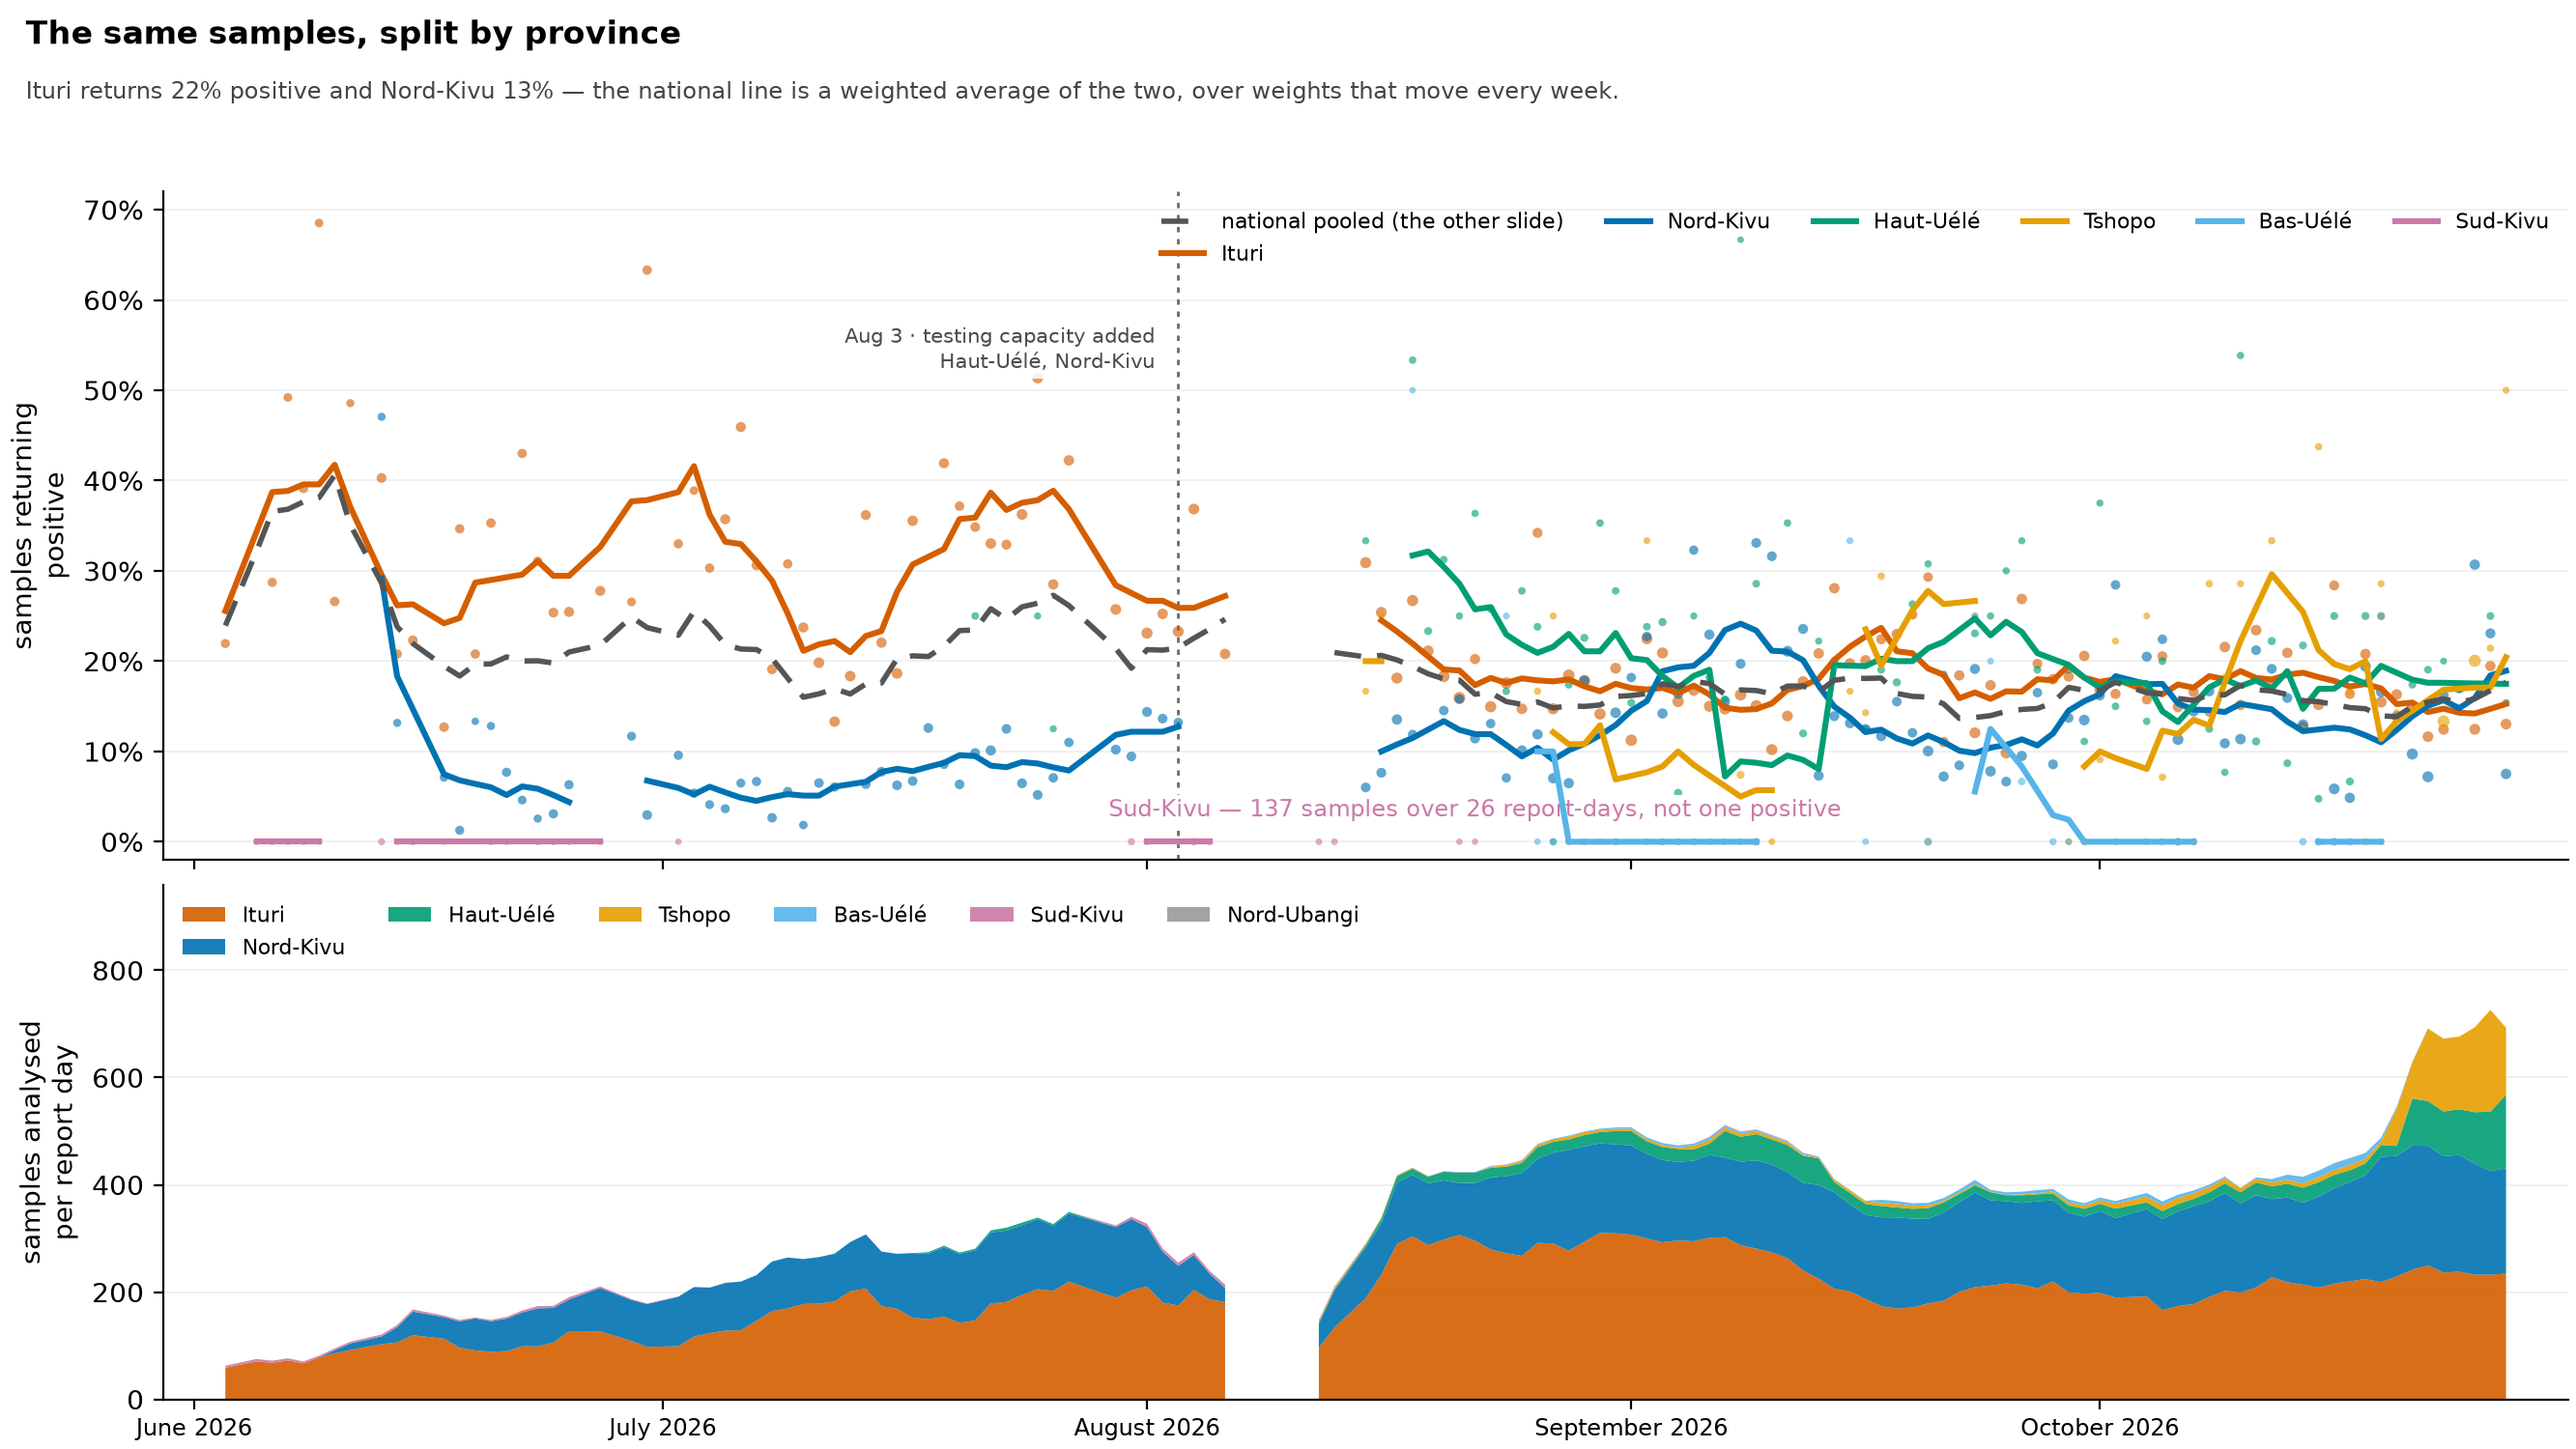
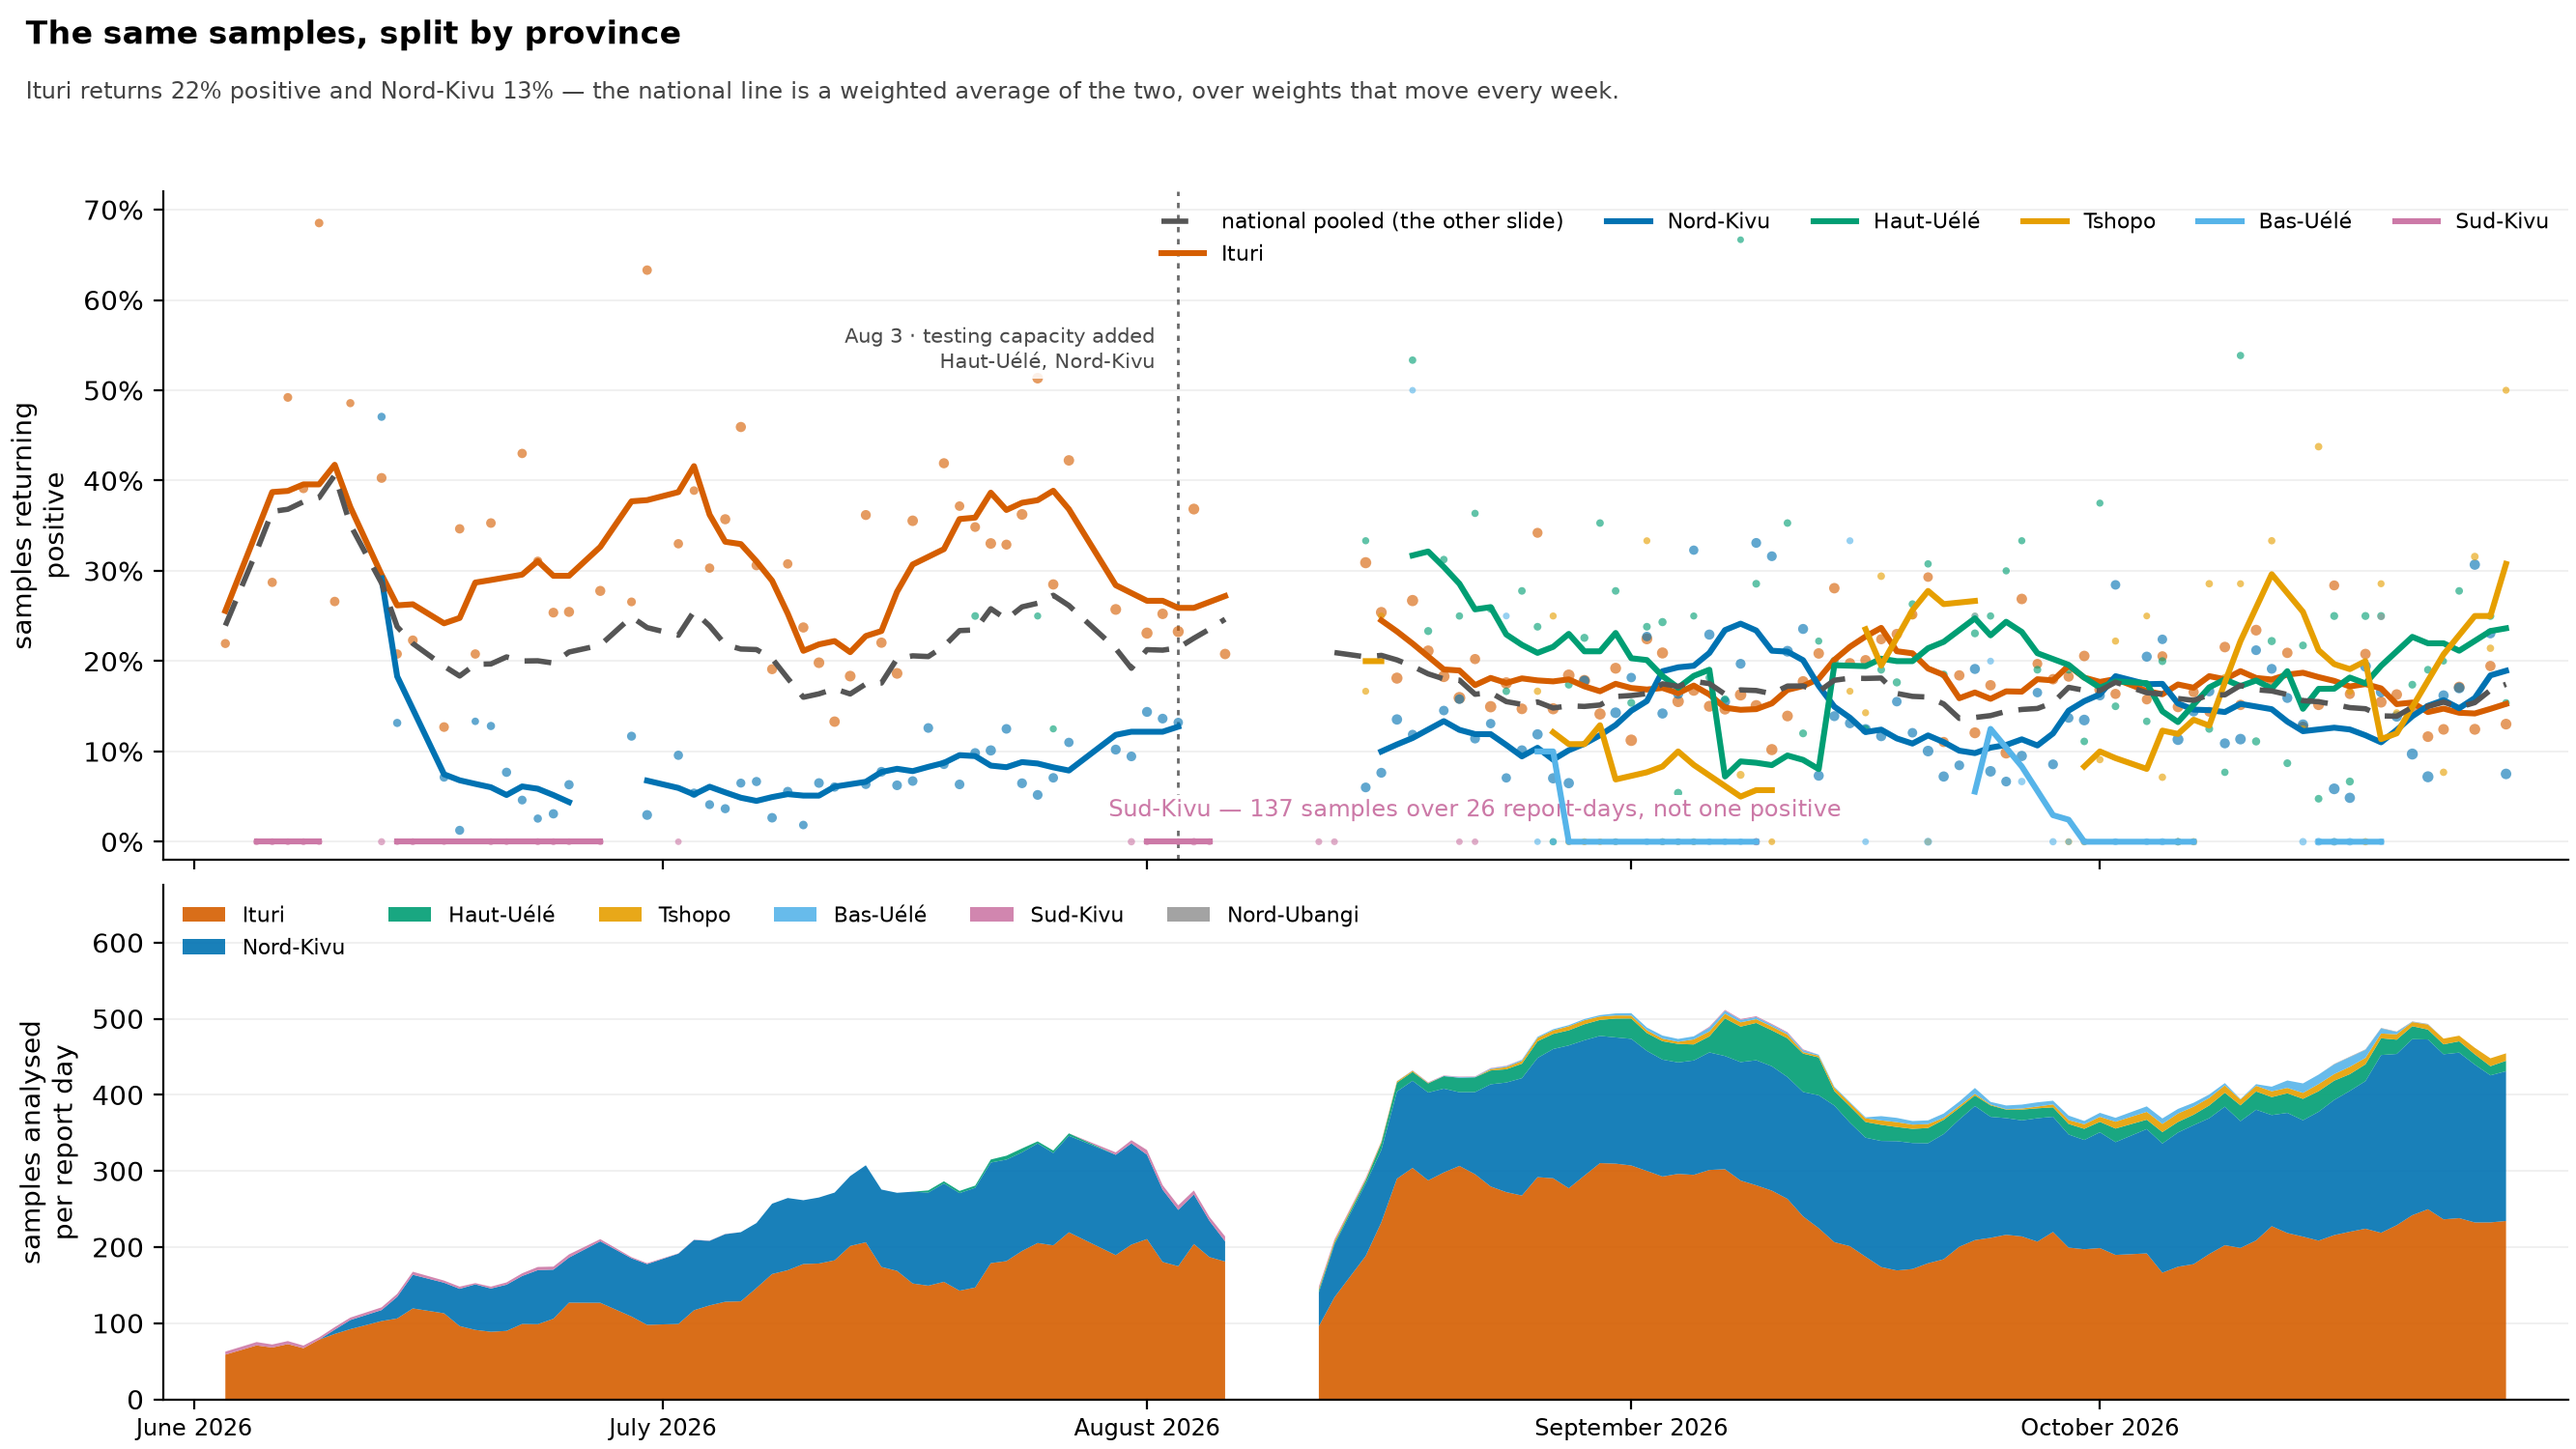
lab: once a report's laboratory section reads any province, readings from outside it are not used -- the front page runs the day's province list into the national laboratory total with no full stop, so the last-named province's segment licensed the national pair against the national rate: Tshopo 60/

diff --git a/scripts/extract_lab_prose.py b/scripts/extract_lab_prose.py
@@ -268,7 +268,7 @@ def extract(pdf: Path) -> tuple[list[dict], list[dict]]:
                 # zero -- so this row is as validated as a printed number.
                 rows.append({"province": prov, "samples": int(ns[0]),
                              "positives": 0, "printed_pct": 0.0,
-                             "rate_printed": True,
+                             "rate_printed": True, "in_lab": in_lab,
                              "sentence": seg.strip()[:220]})
                 continue
         if not pcts:
@@ -283,7 +283,7 @@ def extract(pdf: Path) -> tuple[list[dict], list[dict]]:
                     n, k = got
                     rows.append({"province": prov, "samples": n,
                                  "positives": k, "printed_pct": None,
-                                 "rate_printed": False,
+                                 "rate_printed": False, "in_lab": in_lab,
                                  "sentence": seg.strip()[:220]})
                 elif why == "positives_exceed_samples":
                     refused.append({"why": "fallback_positives_exceed_samples",
@@ -301,8 +301,23 @@ def extract(pdf: Path) -> tuple[list[dict], list[dict]]:
             continue
         k, n, p = got
         rows.append({"province": prov, "samples": n, "positives": k,
-                     "printed_pct": p, "rate_printed": True,
+                     "printed_pct": p, "rate_printed": True, "in_lab": in_lab,
                      "sentence": seg.strip()[:220]})
+    # THE LABORATORY SECTION IS THE PROVINCE'S OWN STATEMENT; ELSEWHERE A
+    # SEGMENT CAN SWALLOW A NATIONAL SENTENCE. The front page lists the day's
+    # provinces and runs straight into the national laboratory total with no
+    # full stop between them -- sitrep 162: "... et de la Tshopo (1) Un total
+    # de 450 nouveaux échantillons a été analysé ; 60 de ces échantillons se
+    # sont révélés positifs ..., soit 13,3 %" -- so the last-named province's
+    # segment holds a pair (60, 450) that reproduces its printed rate and
+    # licenses. It was Tshopo's on 23 and 25 October (the section says 1/13
+    # and 6/19) and Haut-Uélé's on 24 October (5/18), and the national
+    # series counted each of those days twice. Once the section has spoken
+    # for any province, readings from outside it are not used for that
+    # report; they remain the route for reports whose section the reader
+    # cannot find.
+    if any(r["in_lab"] for r in rows):
+        rows = [r for r in rows if r["in_lab"]]
     out, conflicts = dedupe_by_province(rows)
     refused.extend(conflicts)
     return out, refused
@@ -358,6 +373,7 @@ def main() -> None:
         num, date = report_key(pdf)
         got, refused = extract(pdf)
         for r in got:
+            r = {k: v for k, v in r.items() if k != "in_lab"}
             rows.append({"sitrep": num, "date": date, **r})
         status.append({"sitrep": num, "date": date, "n_parsed": len(got),
                        "n_refused": len(refused),

diff --git a/tests/test_extraction.py b/tests/test_extraction.py
@@ -1146,6 +1146,51 @@ def test_lab_prose_validated_rows_agree_with_their_own_printed_pct():
     assert not bad, bad
 
 
+@needs_pdfs
+@pytest.mark.parametrize("n, province, want", [
+    (162, "Tshopo", (13, 1)),       # front page: 450 analysed, 60 positive
+    (163, "Haut-Uélé", (18, 5)),    # front page: 512 analysed, 88 positive
+    (164, "Tshopo", (19, 6)),       # front page: 479 analysed, 96 positive
+])
+def test_lab_prose_the_national_headline_is_not_the_last_named_province(
+        n, province, want):
+    """The front page names the day's provinces and runs into the national
+    laboratory total with no full stop between ("... et de la Tshopo (1) Un
+    total de 450 nouveaux échantillons a été analysé ; 60 ..."), so the last
+    province's segment holds the national pair, and it licenses against the
+    national rate. The province's own bullet in the laboratory section is
+    the reading; the headline is not."""
+    import extract_lab_prose as L
+    got, _ = L.extract(pdf(n))
+    by = {r["province"]: (r["samples"], r["positives"]) for r in got}
+    assert by[province] == want
+
+
+@needs_lab_prose_build
+def test_lab_prose_no_province_holds_the_national_count():
+    """One province cannot account for every confirmed case of a day on
+    which another province also had positives. A province row equal to the
+    day's national confirmed cases on such a day is the national sentence
+    read into a province: on 2026-10-23..25 that put 60, 88 and 96 positives
+    into Tshopo and Haut-Uélé and counted each day twice nationally."""
+    import polars as pl
+    cases_file = ROOT / "data/build/streams/cases_daily_national.tsv"
+    if not cases_file.exists():
+        pytest.skip("cases_daily_national.tsv is not built; run `make streams`")
+    lab = pl.read_csv(LAB_PROSE_BUILD, infer_schema_length=None)
+    cases = pl.read_csv(cases_file, separator="\t", null_values="NA").select(
+        pl.col("window_start").alias("date"),
+        pl.col("cases_national").alias("national"))
+    breadth = lab.group_by("date").agg(
+        (pl.col("positives") > 0).sum().alias("n_positive_provinces"))
+    bad = (lab.join(cases, on="date").join(breadth, on="date")
+           .filter((pl.col("positives") > 0)
+                   & (pl.col("positives") == pl.col("national"))
+                   & (pl.col("n_positive_provinces") >= 2)))
+    assert bad.is_empty(), bad.select("sitrep", "province", "samples",
+                                      "positives", "national").rows()
+
+
 # --------------------------------------------------------------------------
 # The letality check, and the register entry it produced
 # --------------------------------------------------------------------------
